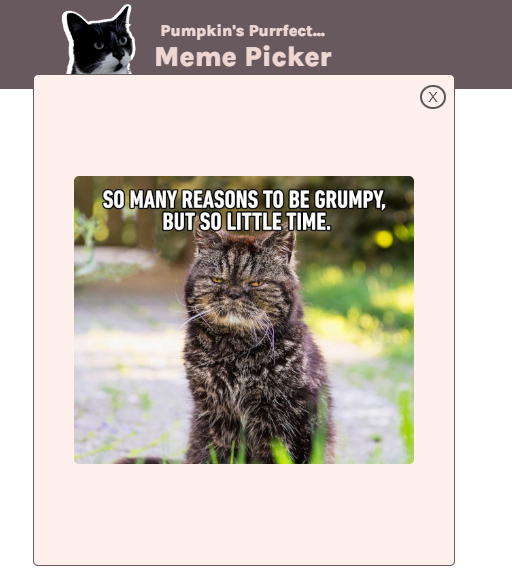
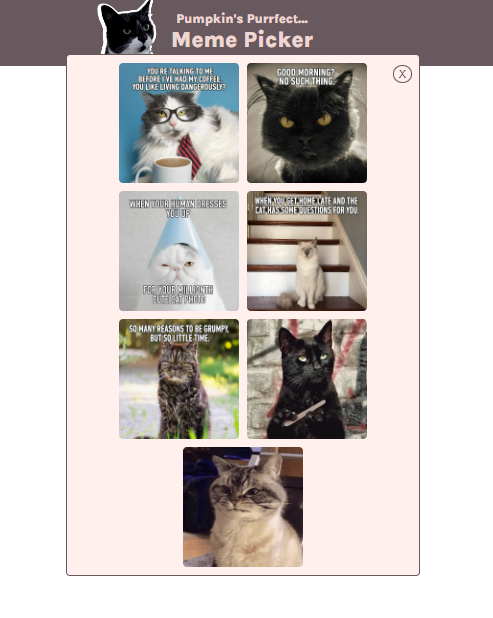
added png

diff --git a/3-meme-picker-app/index.js b/3-meme-picker-app/index.js
@@ -46,14 +46,20 @@ function getSingleCatObject(){
         `
     }
     else{
-        memeModalInner.innerHTML =  `
+        memeModalInner.innerHTML =""
+        for (let cat of catsArray){
+           
+            memeModalInner.innerHTML +=  `
         <img 
-        class="cat-img" 
-        src="./images/${catsArray[Math.floor(Math.random() * catsArray.length)].image}"
-        alt="${catsArray[Math.floor(Math.random() * catsArray.length)].image.alt}"
+        class="cat-img2" 
+        src="./images/${cat.image}"
+        alt="${cat.alt}"
         >
     
         `
+
+        }
+        
    
         
    

diff --git a/3-meme-picker-app/index.css b/3-meme-picker-app/index.css
@@ -134,22 +134,28 @@ input[type="radio"]{
     border: 1px solid #67595e;
     border-radius: 5px;
     width: 420px;
-    height: 490px;
+    min-height: 490px;
     background-color: #fff0ee;
+    padding: 10px;
 }
 
 
-
+#meme-modal-inner{
+    display: flex;
+    justify-content: center;
+    flex-wrap: wrap;
+    gap:10px;
+}
 .cat-img{
-    max-width: 340px;
-    max-height: 420px;
+    width: 340px;
+    height: 420px;
     border-radius: 5px;
 }
 
 .cat-img2{
-    display: flex;
-    max-width: 80px;
-    max-height: 80px;
+
+    width: 150px;
+    height: 150px;
     border-radius: 5px;
 }
 
